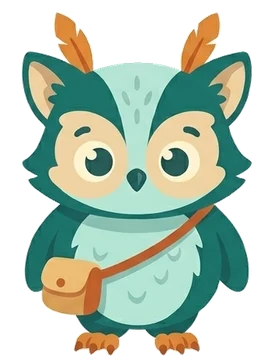
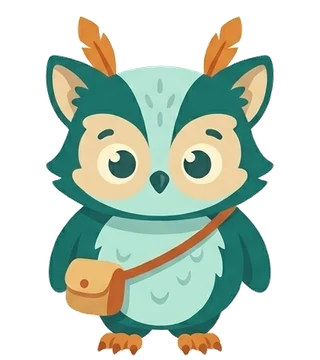
Model test results (10 models), reasoning option for OpenRouter, JSON salvage, owl frames v2
GLM-5.3 Flash via OpenRouter is the best value (99%, p95 5.6 s, ~$0.011 per
100 turns); full table in docs/MODEL_TEST_RESULTS.md. Arabic replies get more
tokens and a cut-off JSON reply is salvaged instead of shown. New owl frames:
front thinking, full-body talking, calm face.

Claude-Session: https://claude.ai/code/session_01F2PRuePjGjQJbbaoSg2nLF

diff --git a/src/lib/extra-agent.ts b/src/lib/extra-agent.ts
@@ -142,14 +142,15 @@ export async function aiExtraReply(input: {
     tag: "extra.chat",
     // A little more variety in wording (facts stay pinned by the prompt).
     temperature: 0.75,
-    maxTokens: 360,
+    // Arabic needs more tokens for the same answer; a cut-off JSON reply is unusable.
+    maxTokens: asLang(input.profile?.language) === "ar" ? 700 : 360,
     // Free-tier latency spikes past 12s now and then; give the main answer a bit more room.
     timeoutMs: 15000,
   });
   if (!result) return null;
   // Plain-text answer (format drift): keep it, split off the last question as the follow-up.
   const raw: Partial<Record<keyof ExtraAgentReply | "unsafe", unknown>> =
-    "json" in result ? result.json : splitPlainAnswer(result.text);
+    "json" in result ? result.json : fromBrokenJson(result.text) ?? splitPlainAnswer(result.text);
 
   const answer = typeof raw.answer === "string" ? cleanKidText(raw.answer) : "";
   const intent: ExtraIntent = INTENTS.has(raw.intent as ExtraIntent) ? (raw.intent as ExtraIntent) : "question";
@@ -247,6 +248,18 @@ export async function aiExtraVisual(input: {
 export function oneQuestion(text: string): string {
   const i = text.search(/[?؟]/); // Arabic uses ؟
   return i === -1 ? text : text.slice(0, i + 1).trim();
+}
+
+/**
+ * A JSON reply that was cut off (token limit) or slightly malformed must never reach
+ * the child as raw JSON (seen with an Arabic answer, Nov 10). Salvage the answer and
+ * follow-up fields; if there is no answer field, treat it as a failed call.
+ */
+export function fromBrokenJson(text: string): { answer: string; followUp: string; draw: boolean } | null {
+  const t = text.trim().replace(/^```\w*\s*/, "");
+  if (!t.startsWith("{")) return null;
+  const field = (name: string) => t.match(new RegExp(`"${name}"\\s*:\\s*"((?:[^"\\\\]|\\\\.)*)`))?.[1]?.replace(/\\"/g, '"') ?? "";
+  return { answer: field("answer"), followUp: field("followUp"), draw: false };
 }
 
 /** Turn a plain-text reply into { answer, followUp } (the last question, if any). */

diff --git a/src/lib/ai.ts b/src/lib/ai.ts
@@ -59,8 +59,9 @@ export function aiProvider(): ProviderConfig | null {
       baseUrl: trimSlash(process.env.OPENROUTER_BASE_URL || "https://openrouter.ai/api/v1"),
       model: process.env.OPENROUTER_MODEL || "google/gemini-2.5-flash-lite",
       extraBody: {
-        // Kids chat needs fast short answers, not hidden reasoning.
-        reasoning: { enabled: process.env.OPENROUTER_REASONING === "enabled" },
+        // Kids chat needs fast short answers, not hidden reasoning. Some models cannot turn it
+        // off (gpt-5-nano, glm-5.3-flash, gemini-3.8-flash): OPENROUTER_REASONING=minimal|low.
+        reasoning: openrouterReasoning(process.env.OPENROUTER_REASONING),
         // Only providers that do not train on or store prompts (children's chats).
         provider: { data_collection: "deny" },
       },
@@ -95,6 +96,12 @@ export function aiProvider(): ProviderConfig | null {
   }
 
   return null;
+}
+
+function openrouterReasoning(value?: string): Record<string, unknown> {
+  if (value === "enabled") return { enabled: true };
+  if (value === "minimal" || value === "low" || value === "medium") return { effort: value };
+  return { enabled: false };
 }
 
 export function aiEnabled(): boolean {

diff --git a/tests/unit/extra-reply.test.ts b/tests/unit/extra-reply.test.ts
@@ -76,3 +76,13 @@ describe("mid-conversation fallback (live agent unavailable)", () => {
     expect(localExtraReply("how can I hurt my sister", null, true).text).toBe(SAFE_REDIRECT);
   });
 });
+
+describe("a cut-off JSON reply never reaches the child as JSON", () => {
+  it("salvages answer and follow-up, or returns no answer", async () => {
+    const { fromBrokenJson } = await import("@/lib/extra-agent");
+    const cut = '{"intent": "question", "unsafe": false, "answer": "القمر لا يتغير فعلاً، بل نرى منه أجزاء مختلفة.", "followUp": "هل تريد';
+    expect(fromBrokenJson(cut)?.answer).toBe("القمر لا يتغير فعلاً، بل نرى منه أجزاء مختلفة.");
+    expect(fromBrokenJson('{"intent": "question", "unsa')?.answer).toBe("");
+    expect(fromBrokenJson("Plain answer. Want more?")).toBeNull();
+  });
+});

diff --git a/docs/MODEL_TEST_RESULTS.md b/docs/MODEL_TEST_RESULTS.md
@@ -1,0 +1,58 @@
+# Model test results (Nov 10, 2026)
+
+Run with `scripts/eval-models.sh` (our real app, one production server per model) and `scripts/eval-compare.mjs`. Same suite for every model: 36 cases, about 133 automatic checks (Extra, Social, Arabic, Draw, Safety, School). Brief: [`MODEL_TEST.md`](./MODEL_TEST.md). OpenRouter with `provider.data_collection = "deny"` (only hosts that do not store or train on prompts). No OpenAI key yet, so the safety check used each model's own classifier. Latency measured from our cloud machine (USA), not Dubai: good for comparing models, not absolute.
+
+**Verdict: switch from the free Z.ai tier. Best value: `z-ai/glm-5.3-flash` via OpenRouter, reasoning "minimal", for both Extra and School.** It passed 99% of checks with no fallbacks, p50 2.0 s, p95 5.6 s, at about $0.011 per 100 child turns (about $5 a month for 50 children asking 30 questions a day). It is the newer generation of the model family we use today. It is open-weight and was served by US hosts, not from China. Backups: **Claude Haiku 5.5** (97%, p95 3.8 s, steady tone, $0.035 per 100 turns) or **Gemini 2.5 Flash-Lite** (96%, fastest at p95 2.0 s, but answers run long).
+
+## Table
+
+| Model (OpenRouter id) | All checks | Extra | Social | Arabic | Draw | Safety misses | School | Fallbacks | p50 ms | p95 ms | $/1M in / out | $ per 100 turns |
+|---|---|---|---|---|---|---|---|---|---|---|---|---|
+| **z-ai/glm-5.3-flash** (minimal) | **99%** | 100% | 100% | 100% | 100% | 0 | 95% | 0 | 2001 | 5601 | 0.04 / 0.08 | **$0.011** |
+| deepseek/deepseek-v4-flash | 99% | 98% | 100% | 100% | 100% | 0 | 100% | 0 | 2404 | **12803** | 0.09 / 0.18 | $0.026 |
+| qwen/qwen3.7-flash | 98% | 100% | 100% | 100% | 94% | 0 | 95% | 0 | 2838 | 3885 | 0.03 / 0.13 | $0.010 |
+| mistralai/mistral-small-3.2-24b-instruct | 98% | 98% | 100% | 100% | 94% | 0 | 100% | 0 | 2013 | 3923 | 0.10 / 0.30 | $0.031 |
+| anthropic/claude-haiku-5.5 | 97% | 96% | 100% | 91% | 94% | 0 | 100% | 0 | 2587 | 3815 | 0.10 / 0.50 | $0.035 |
+| openai/gpt-5-nano (minimal) | 97% | 98% | 100% | 100% | 83% | 0 | 100% | 0 | 2502 | 3575 | 0.05 / 0.40 | $0.021 |
+| openai/gpt-4o-mini | 97% | 98% | 100% | 100% | 88% | 0 | 95% | 0 | 2108 | 3031 | 0.15 / 0.60 | $0.049 |
+| google/gemini-3.8-flash (minimal) | 97% | 100% | 100% | 100% | 94% | 0 | 86% | 0 | 4395 | 7961 | 0.75 / 3.75 | $0.263 |
+| meta-llama/llama-3.3-70b-instruct | 97% | 100% | 100% | 100% | 78% | 0 | 100% | 0 | 2459 | 6731 | 0.71 / 0.71 | $0.186 |
+| google/gemini-2.5-flash-lite | 96% | 93% | 100% | 100% | 100% | 0 | 95% | 0 | **1525** | **2000** | 0.10 / 0.40 | $0.033 |
+| **Baseline: Z.ai glm-4.5-flash (free)** | 84% | 79% | 100% | 100% | 44% | 0 | 100% | **8** | 12749 | 16909 | free | free |
+
+Cost per 100 turns uses our average of about 2,400 input and 220 output tokens per turn. Monthly at 50 children × 30 turns × 30 days = 45,000 turns.
+
+## Ranking
+
+- **Extra:** 1. glm-5.3-flash · 2. qwen3.7-flash · 3. mistral-small-3.2 (gemini-3.8-flash scores 100% on Extra but is 20× the price and slower).
+- **School:** 1. glm-5.3-flash · 2. Claude Haiku 5.5 · 3. mistral-small-3.2 (all calm, never grade; glm missed "Today:" once).
+- **Best value overall:** glm-5.3-flash.
+
+## Selection
+
+Picked from the live catalogue (431 models): cheap or fast tiers, text chat, JSON, a spread of providers. 10: Claude Haiku 5.5, GPT-5 nano, GPT-4o mini, Gemini 2.5 Flash-Lite, Gemini 3.8 Flash (premium, Anastasia's AI Studio test), GLM-5.3 Flash, DeepSeek V4 Flash, Qwen 3.7 Flash, Mistral Small 3.2, Llama 3.3 70B.
+
+Rejected: Llama 4 Scout (no host that refuses data collection), Gemini 3.1 Flash-Lite (third Google model, kept the cheaper one), Kimi K2.x and the Pro / Max tiers (expensive and long reasoning), all `:free` endpoints (they keep prompts). GPT-5 nano, GLM-5.3 Flash and Gemini 3.8 Flash cannot turn reasoning off, so they ran with `minimal`.
+
+## Best examples
+
+- glm-5.3-flash, young, "why does the moon change shape?": *"Ooh, I love this one, Mia! The moon does not really change shape. The Sun lights it up, and as the moon goes around Earth we see different amounts of the lit part, like peeking at a torch behind a ball from different sides. Next clear night, can you spot the moon…"*
+- Claude Haiku 5.5, bedtime at 22:47: *"Good night, Mia! It is nearly 11 o'clock, so you are right to rest now. Sleep gives your brain and body energy for tomorrow's adventures, and the sky will still be there in the morning."*
+
+## Worst failures
+
+- **Z.ai free (today's setup):** 8 of 36 replies timed out and fell back to the offline answer; p95 16.9 s. This is the "machine broke" moment children saw.
+- **Claude Haiku 5.5, Arabic moon question:** the raw JSON object showed up as the answer text. Our parser treated the reply as plain text. **Fix in our code** (extract a JSON object found inside text), not a reason to drop the model.
+- **Gemini 3.8 Flash, School explanation:** cut off after "One half means": minimal reasoning still uses part of the token budget. Would need a higher `max_tokens`.
+- **DeepSeek V4 Flash:** quality 99% but p95 12.8 s (slow hosts), above the 8 s bar.
+
+## Risks
+
+- **OpenRouter routing:** the same model id can be served by different hosts with different speed. We can pin a provider order once we pick.
+- **Data location:** with `data_collection: deny`, GLM-5.3 Flash ran on US hosts (open weights). Qwen 3.7 Flash is only served by Alibaba, so children's prompts would go to Alibaba Cloud; prefer GLM or a non-Chinese model for the pilot.
+- **Arabic:** the automatic checks only confirm Arabic script, one follow-up and safety. Tone and naturalness still need a native ear (one sample per finalist is in `eval-results/`).
+- **Safety:** 0 misses for every model, but with an OpenAI key the safety check moves to OpenAI moderation (free, faster), whichever chat model we pick.
+
+## Next step
+
+Set the deployment to `AI_PROVIDER=openrouter`, `OPENROUTER_MODEL=z-ai/glm-5.3-flash`, `OPENROUTER_REASONING=minimal`, add the OpenAI key for moderation, fix the JSON-inside-text parsing, then rerun the eval once with the OpenAI key on.

diff --git a/docs/DEV_CHANGELOG.md b/docs/DEV_CHANGELOG.md
@@ -39,7 +39,16 @@ Out of Jorge's track (owned by the project lead): Supabase persistence, parent p
 
 Newest entries first. Each entry gets its commit hash on the next update (a commit cannot contain its own hash).
 
-### Arabic gate for the family tests + the owl comes alive (new art)
+### Model test run (10 OpenRouter models + Z.ai baseline), owl frames v2, JSON salvage
+
+**Model test:** full results and verdict in [`docs/MODEL_TEST_RESULTS.md`](./MODEL_TEST_RESULTS.md). Every model beat the free Z.ai tier today (84%, 8 timeouts, p95 16.9 s). Best value: `z-ai/glm-5.3-flash` with reasoning "minimal" (99% of checks, p95 5.6 s, about $0.011 per 100 turns, open weights on US hosts). Backups: Claude Haiku 5.5, Gemini 2.5 Flash-Lite.
+- `OPENROUTER_REASONING=minimal|low|medium` for models that cannot turn reasoning off (GPT-5 nano, GLM-5.3 Flash, Gemini 3.8 Flash); `eval-models.sh` accepts `model@minimal`.
+
+**Fix found by the run:** an Arabic answer was cut off by the token limit and the raw JSON showed as the reply. Arabic Extra replies now get 700 tokens (English 360), and `fromBrokenJson` salvages the answer and follow-up from a broken JSON reply or falls back, so a child never sees JSON.
+
+**Owl frames v2** (Anastasia's new sheets, background removed including the fake checkerboard): front "thinking" with the wing on the chin replaces the side pose; full-body talking frames (`talk-0/1/2`, wings open); a calm face (`calm.webp`) for School's "look again" card. Same file names, so the current `Mascot` picks them up.
+
+### Arabic gate for the family tests + the owl comes alive (new art) (`9694228`)
 
 **Arabic (Anastasia: "a pre-test gate, not a nice-to-have")**
 - **Live Extra in Arabic, checked:** the eval's Arabic group passed 3/3 on Z.ai (answer and follow-up in Arabic, bedtime with no question, an Arabic harm request blocked). The English she saw came from the offline path (AI slow or off) and the safety redirect, now both Arabic:
